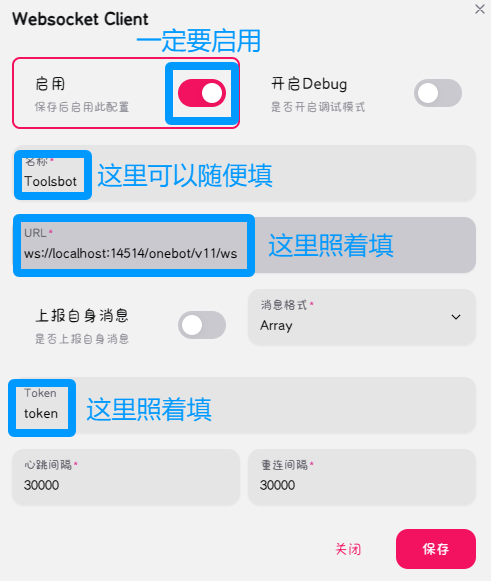
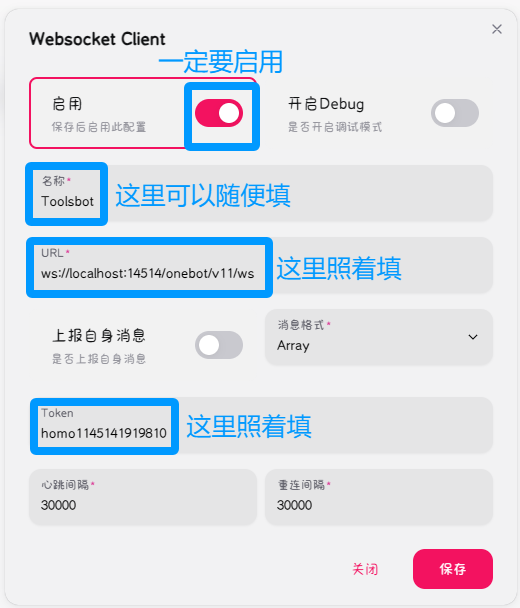
简单优化 (#9)
* 更新README图片

* 更改中文README

* Clear SUPERUSERS in .env.dev

Removed user IDs from SUPERUSERS in the development environment.

* Clear SUPERUSERS in .env.prod

* Improve QQ bot connection instructions in README

Updated instructions for connecting the bot to QQ, including installation steps and configuration details.

* Update SUPERUSERS in .env.dev file

* Update

diff --git a/README.en.md b/README.en.md
@@ -67,7 +67,12 @@ Run `nb run --reload` to boot this bot.
 
 ## How to connect bot to QQ?
 
-Go https://github.com/NapNeko/NapCatQQ.
+First install NapCat and login with the Bot's QQ account. https://github.com/NapNeko/NapCatQQ.
+
+Then, in "Network Configuration" --> New --> WebSocket Client, fill in the name, URL, and token
+
+![Napcat1](./README.NAPCAT.1.png)
+![Napcat2](./README.NAPCAT.2.png)
 
 ## Thanks
 > [!Note]

diff --git a/README.md b/README.md
@@ -81,8 +81,6 @@ pip install -r ./scripts/install/requirements.txt
 ![Napcat1](./README.NAPCAT.1.png)
 ![Napcat2](./README.NAPCAT.2.png)
 
-注意下 Token 填 'homo1145141919810'，必须填这个，否则会认证失败。
-
 ## 使用教程？
 在 Bot 上线之后，用 ^help，或者参考这个图片：
 
